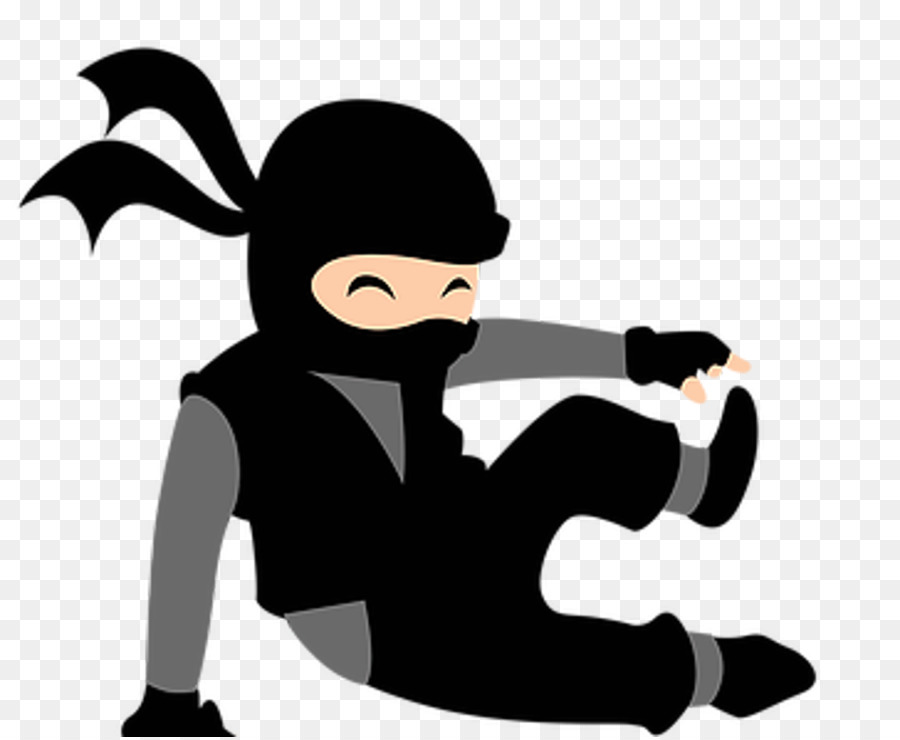
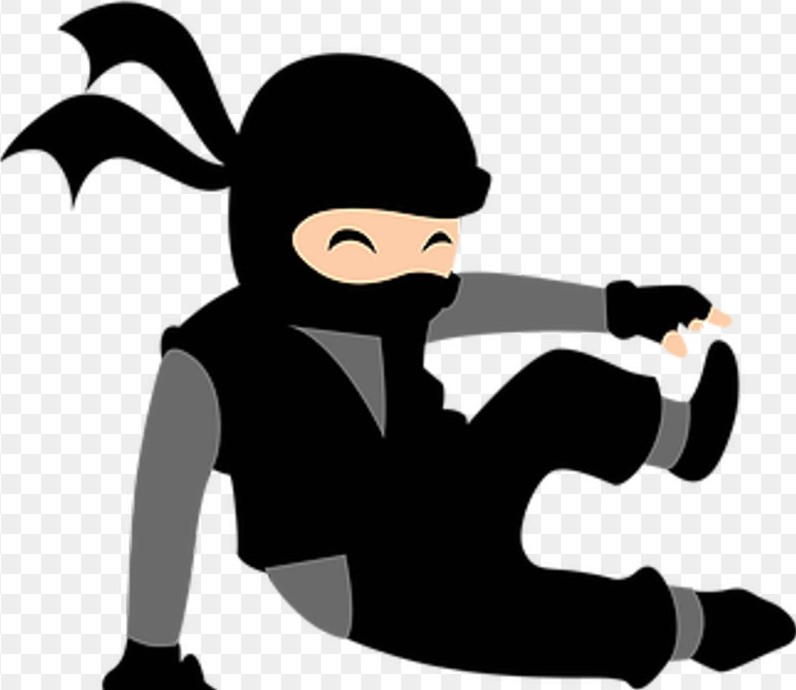
refactor: graphics

Changed region(s): [[0.0, 0.0, 1.0, 1.0], [0.5729, 0.9739, 0.603, 1.0]]

diff --git a/lib/ninja.dart b/lib/ninja.dart
@@ -5,7 +5,7 @@ import 'package:ninja_jump/game_object.dart';
 enum NinjaState { running, jumping }
 
 class Ninja extends GameObject {
-  final double width = 90;
+  final double width = 60;
   final double height = 50;
   final movementSpeed = 1.15;
 
@@ -23,7 +23,7 @@ class Ninja extends GameObject {
   }
 
   @override
-  Widget render() => Image.asset("assets/graphics/ninja.jpg");
+  Widget render() => Image.asset("assets/graphics/ninja.jpg", fit: BoxFit.fill,);
 
   @override
   Rect getRect(Size screenSize, double runDistance) => Rect.fromLTWH(

diff --git a/lib/obstacle.dart b/lib/obstacle.dart
@@ -13,7 +13,7 @@ class Obstacle extends GameObject {
   final double height = 35;
 
   @override
-  Widget render() => Image.asset("assets/graphics/ninja_star.png");
+  Widget render() => Image.asset("assets/graphics/ninja_star.jpg");
 
   double _calculateTop(Size screenSize) {
     const boundArea = 0.05;
